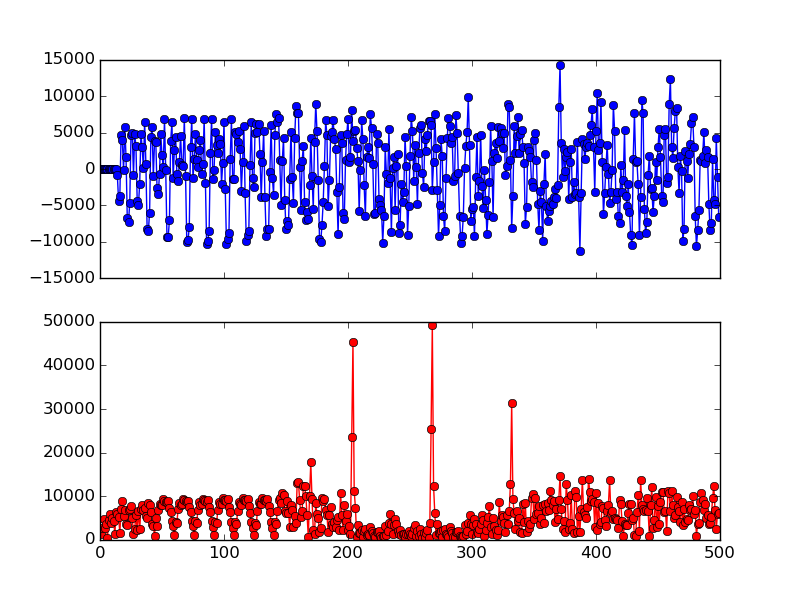
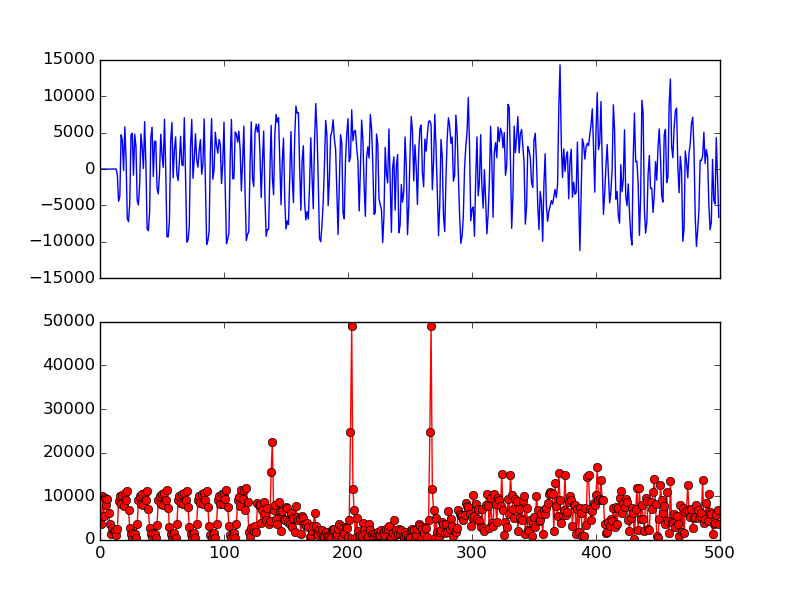
working on eq

Changed region(s): [[0.125, 0.12, 0.9062, 0.42], [0.125, 0.54, 0.9062, 0.9], [0.6875, 0.09, 0.7188, 0.12]]

diff --git a/docs/source/sync_long.rst b/docs/source/sync_long.rst
@@ -1,6 +1,10 @@
 Symbol Alignment
 ================
 
+- **Module**: :file:`sync_long.v`
+- **Input**: ``I (16), Q (16), phase_offset (32), short_gi (1)``
+- **Output**: ``long_preamble_detected (1), fft_re (16), fft_im (16)``
+
 After detecting the packet, the next step is to determine precisely where each
 OFDM symbol starts. In 802.11, each OFDM symbol is 4 |us| long. At 20 MSPS
 sampling rate, this means each OFDM symbol contains 80 samples. The task is to
@@ -14,20 +18,20 @@ achieved using the long preamble following the short preamble.
     802.11 OFDM Packet Structure (Fig 18-4 in 802.11-2012 Std)
 
 As shown in :numref:`fig_training`, the long preamble duration is 8 |us| (160
-samples), and contains two identical long training sequence (LTS), 64 samples each.
-The LTS is known and we can use `matched filter
-<https://en.wikipedia.org/wiki/Matched_filter>`_ to find it.
+samples), and contains two identical long training sequence (LTS), 64 samples
+each.  The LTS is known and we can use `cross correlation
+<https://en.wikipedia.org/wiki/Cross-correlation>`_ to find it.
 
-The match *score* at sample :math:`i` can be calculated as follows.
+The cross validation *score* at sample :math:`i` can be calculated as follows.
 
 .. math:: 
-    :label: eq_matched
+    :label: eq_cross_corr
 
-    Y[i] = \sum_{k=0}^{63}(S[i+k]\overline{H[63-k]})
+    Y[i] = \sum_{k=0}^{63}(S[i+k]\overline{H[k]})
 
 where :math:`H` is the 64 sample known LTS in time domain, and can be found in
-Table L-6 in :download:`802.11-2012 std </files/802.11-2012.pdf>` (index 64 to
-127). A numpy readable file of the LTS (64 samples) can be found :download:`here
+Table L-6 in :download:`802.11-2012 std </files/802.11-2012.pdf>` (index 96 to
+159). A numpy readable file of the LTS (64 samples) can be found :download:`here
 </files/lts.txt>`, and can be read like this:
 
 .. code-block:: python
@@ -39,7 +43,7 @@ Table L-6 in :download:`802.11-2012 std </files/802.11-2012.pdf>` (index 64 to
 .. figure:: /images/lts.png
     :align: center
 
-    Long Preamble and Matched Filter Result
+    Long Preamble and Cross Correlation Result
 
 To plot :numref:`fig_lts`, load the data file (see :ref:`sec_sample`), then:
 
@@ -53,30 +57,30 @@ To plot :numref:`fig_lts`, load the data file (see :ref:`sec_sample`), then:
     fig, ax = plt.subplots(nrows=2, ncols=1, sharex=True)
     ax[0].plot([c.real for c in samples][:500])
     # lts is from the above code snippet
-    ax[1].plot([abs(c) for c in np.convolve(samples, lts, mode='same')][:500], '-ro')
+    ax[1].plot([abs(c) for c in np.correlate(samples, lts, mode='valid')][:500], '-ro')
     plt.show()
 
     
 
-:numref:`fig_lts` shows the long preamble samples and also the result of matched
-filter. We can clearly see two spikes corresponding the two LTS in long
+:numref:`fig_lts` shows the long preamble samples and also the result of cross
+correlation. We can clearly see two spikes corresponding the two LTS in long
 preamble. And the spike width is only 1 sample which shows exactly the beginning
 of each sequence. Suppose the sample index if the first spike is :math:`N`, then
-the 160 sample long preamble starts at sample :math:`N-33`.
+the 160 sample long preamble starts at sample :math:`N-32`.
 
 This all seems nice and dandy, but as it comes to Verilog implementation, we
-have to make a few compromises.
+have to make a compromise.
 
-First, from :eq:`eq_matched` we can see for each sample, we need to perform 64
+From :eq:`eq_cross_corr` we can see for each sample, we need to perform 64
 complex number multiplications, which would consume a lot FPGA resources.
-Therefore, we need to reduce the matched filter size. The idea is to only use
-a portion instead of all the LTS samples.
+Therefore, we need to reduce the size of cross validation. The idea is to only
+use a portion instead of all the LTS samples.
 
 .. _fig_match_size:
 .. figure:: /images/match_size.png
     :align: center
 
-    Matched Filter with Various Size (8, 16, 32, 64)
+    Cross Correlation with Various Size (8, 16, 32, 64)
 
 :numref:`fig_match_size` can be plotted as:
 
@@ -86,17 +90,44 @@ a portion instead of all the LTS samples.
 
     fig, ax = plt.subplots(nrows=5, ncols=1, sharex=True)
     ax[0].plot([c.real for c in lp])
-    ax[1].plot([abs(c) for c in np.convolve(lp, lts[:8], mode='same')], '-ro')
-    ax[2].plot([abs(c) for c in np.convolve(lp, lts[:16], mode='same')], '-ro')
-    ax[3].plot([abs(c) for c in np.convolve(lp, lts[:32], mode='same')], '-ro');
-    ax[4].plot([abs(c) for c in np.convolve(lp, lts, mode='same')], '-ro')
+    ax[1].plot([abs(c) for c in np.correlate(lp, lts[:8], mode='valid')], '-ro')
+    ax[2].plot([abs(c) for c in np.correlate(lp, lts[:16], mode='valid')], '-ro')
+    ax[3].plot([abs(c) for c in np.correlate(lp, lts[:32], mode='valid')], '-ro');
+    ax[4].plot([abs(c) for c in np.correlate(lp, lts, mode='valid')], '-ro')
     plt.show()
 
-:numref:`fig_match_size` shows the long preamble (160 samples) as well as
-matched filter with different size. It can be seen that using the first 16
-samples of LTS is good enough to exhibit two narrow spikes. Therefore, |project|
-use matched filter of size 16 for symbol alignment. And the first sample of the
-long preamble starts at :math:`N_{16}-57`, where :math:`N_{16}` is the index of
-the first spike when the filter size is 16 (for completeness, it is
-:math:`N_{32}-49` when filter size is
-32).
+:numref:`fig_match_size` shows the long preamble (160 samples) as well as cross
+validation with different size. It can be seen that using the first 16 samples
+of LTS is good enough to exhibit two narrow spikes. Therefore, |project| use
+cross correlation of first 16 samples of LTS for symbol alignment. To confirm,
+:numref:`fig_lts_16` shows the cross correlation of the first 16 samples of LTS
+on the actual packet. The two spikes are not as obvious as the ones in
+:numref:`fig_lts`, but are still clearly visible.
+
+.. _fig_lts_16:
+.. figure:: /images/lts_16.png
+    :align: center
+
+    Cross Validation using the First 16 Samples of LTS
+
+To find the two spikes, we keep a record of the max correlation sample for the
+first 64 samples (since the first spike is supposed to be at the 32th sample).
+Similarly, we also keep a record of the max correlation sample for the second 64
+samples. For further eliminate false positives, we also check if the two spike
+sample indexes are :math:`64 \pm 1` apart.
+
+
+FFT
+---
+
+Now we have located the start of each OFDM symbol, the next task is to perform
+FFT on the last 64 data samples inside each symbol. For this we utilize the
+`XFFT core
+<https://www.xilinx.com/support/documentation/ip_documentation/xfft_ds260.pdf>`_
+generated by Xilinx ISE. Depend on if `short guard interval (SGI)
+<https://en.wikipedia.org/wiki/Guard_interval>`_ is used, the first 16 or 8
+samples of each OFDM symbol need to be skipped.
+
+But before performing FFT, we need to first apply the frequency offset
+correction (see :ref:`freq_offset`). This is achieved via the ``rotate`` module
+(see :ref:`rotate`).

diff --git a/docs/source/eq.rst b/docs/source/eq.rst
@@ -1,0 +1,91 @@
+Sub-carrier Equalization and Pilot Correction
+============================================
+
+- **Module**: :file:`equalizer.v`
+- **Input**: ``I (16), Q (16)``
+- **Output**: ``I (16), Q (16)``
+
+This is the first module in frequency domain. There are two main tasks:
+sub-carrier gain equalization and correcting residue phase offset using the
+pilot sub-carriers.
+
+Sub-carrier Structure
+---------------------
+
+The basic channel width in 802.11a/g/n is 20 MHz, which is further divided into
+64 sub-carriers (0.3125 MHz each).
+
+.. _fig_subcarrier:
+.. figure:: /images/subcarrier.png
+    :align: center
+
+    Sub-carriers in 802.11 OFDM
+
+:numref:`fig_subcarrier` shows the sub-carrier structure of the 20 MHz band. 52
+out of 64 sub-carriers are utilized, and 4 out of the 52 (-7, -21, 7, 21)
+sub-carriers are used as pilot sub-carrier and the remaining 48 sub-carriers
+carries data. As we will see later, the pilot sub-carriers can be used to
+correct the residue frequency offset.
+
+Each sub-carrier carries I/Q modulated information, corresponding to the output
+of 64 point FFT from :file:`sync_long.v` module. 
+
+
+.. _fig_lts_fft:
+.. figure:: /images/lts_fft.png
+    :align: center
+    :scale: 80%
+
+    FFT of the Perfect and Two Actual LTS
+
+To plot :numref:`fig_lts_fft`:
+
+.. code-block:: python
+
+    lts1 = samples[11+160:][32:32+64]
+    lts2 = samples[11+160:][32+64:32+128]
+    fig, ax = plt.subplots(nrows=3, ncols=1, sharex=True);
+    ax[0].plot([c.real for c in np.fft.fft(lts)], '-bo');
+    ax[1].plot([c.real for c in np.fft.fft(lts1)], '-ro');
+    ax[2].plot([c.real for c in np.fft.ff t(lts2)], '-ro');
+    plt.show()
+
+:numref:`fig_lts_fft` shows the FFT of the perfect LTS and the two actual LTSs
+in the samples. We can see that each sub-carrier exhibits different magnitude
+gain. In fact, they also have different phase drift. The combined effect of
+magnitude gain and phase drift (known as *channel gain*) can clearly be seen in
+the I/Q plane shown in :numref:`fig_lts_fft_iq`.
+
+
+.. _fig_lts_fft_iq:
+.. figure:: /images/lts_fft_iq.png
+    :align: center
+    :scale: 80%
+
+    FFT in I/Q Plane of The Actual LTS
+
+
+To map the FFT point to constellation points, we need to compensate for the
+channel gain. This can be achieved by normalize the data OFDM symbols using the
+LTS. In particular, the mean of the two LTS is used as channel gain (:math:`H`):
+
+.. math::
+
+    H[i] = \frac{1}{2}(LTS_1[i] + LTS_2[i])\times L[i], i \in
+    [-26,\ldots, -1, 1, \ldots, 26]
+
+where :math:`L[i]` is the sign of the LTS sequence:
+
+.. math::
+
+    L_{-26,26} = \{
+    &1, 1, –1, –1, 1, 1, –1, 1, –1, 1, 1, 1, 1, 1, 1, –1, –1, 1,\\
+    &1, –1, 1, –1, 1, 1, 1, 1, 0, 1, –1, –1, 1, 1, –1, 1, –1, 1,\\
+    &–1, –1, –1, –1, –1, 1, 1, –1, –1, 1, –1, 1, –1, 1, 1, 1, 1\}
+
+And the FFT output at sub-carrier :math:`i` is normalized as:
+
+.. math::
+
+    S'[i] = \frac{S[i]}{H[i]}
+

diff --git a/docs/source/verilog.rst b/docs/source/verilog.rst
@@ -9,7 +9,9 @@ quantization and look up table. In |project|, these approximations are used.
 Magnitude Estimation
 --------------------
 
-**Module**: :file:`complex_to_mag.v`
+- **Module**: :file:`complex_to_mag.v`
+- **Input**: ``i (32), q (32)``
+- **Output**: ``mag (32)``
 
 In the ``sync_short`` module, we need to calculate the magnitude of the
 ``prod_avg``, whose real and imagine part are both 32-bits. To avoid 32-bit
@@ -36,10 +38,15 @@ second cycle, ``max`` and ``min`` are determined. In the final cycle, the
 magnitude is calculated.
 
 
+.. _sec_phase:
+
 Phase Estimation
 ----------------
 
-**Module**:: :file:`phase.v`
+- **Module**: :file:`phase.v`
+- **Input**: ``i (32), q (32)``
+- **Output**: ``phase (32)``
+- **Note**: The returned phase is scaled up by 512 (i.e., :math:`int(\theta *512)`)
 
 When correcting the frequency offset, we need to estimate the phase of a complex
 number. The *right* way of doing this is probably using the `CORDIC
@@ -102,3 +109,43 @@ Refer to `this guide
 <https://www.xilinx.com/itp/xilinx10/isehelp/cgn_p_memed_single_block.htm>`_ on
 how to create a look up table in Xilinx ISE. The generated module is stored in
 :file:`verilog/coregen/atan_lut.v`.
+
+
+
+.. _rotate:
+
+Rotation
+--------
+
+- **Module**: :file:`/verilog/rotate.v`
+- **Input**: ``i (16), q (16), phase (32)``
+- **Output**: ``out_i (16), out_q (16)``
+- **Note**: The input phase is assumed to be scaled up by 512.
+
+To rotate a complex number :math:`C=I+jQ` by :math:`\theta` degree, we can
+multiply it by :math:`e^{j\theta}`, as shown in :eq:`eq_rot`.
+
+.. math::
+    :label: eq_rot
+
+    C' = (I+jQ)\times(\cos(\theta)+j\sin(\theta))
+
+Again, this can be done using the CORDIC algorithm. But similar to
+:ref:`sec_phase`, we use the look up table.
+
+
+.. _fig_quadrant:
+.. figure:: /images/quadrant.png
+    :align: center
+    :scale: 60%
+
+    Quadrant in I/Q Plane
+
+As shown in :numref:`fig_quadrant`, we split the I/Q plane into 8 quadrants,
+:math:`\pi/4` each. To avoid storing nearly duplicate entries in the table, we
+first map the phase to be rotated (:math:`[-\pi, \pi]`) into the :math:`[0,
+\pi/4]` range. Next, since the incoming phase is scaled up by 512, each quadrant
+is further split into :math:`402=int(\pi/4*512)` sectors. And the
+:math:`\cos(\theta)` and :math:`\sin(\theta)` values (scaled up by 2048) are
+stored in the look up table. The table is generated by the
+:file:`scripts/gen_rot_lut.py`.

diff --git a/docs/source/freq_offset.rst b/docs/source/freq_offset.rst
@@ -20,22 +20,26 @@ visually how each correction step helps in the final constellation plane.
 .. _fig_cons:
 .. figure:: /images/cons.png
     :align: center
+    :scale: 80%
 
     Constellation Points Without Any Correction
 
 .. figure:: /images/cons_w_coarse.png
     :align: center
+    :scale: 80%
 
     Constellation Points With Only Coarse Correction
 
 .. figure:: /images/cons_w_coarse_fine.png
     :align: center
+    :scale: 80%
 
     Constellation Points With both Coarse and Fine Correction 
 
 .. _fig_cons_full:
 .. figure:: /images/cons_w_coarse_fine_pilot.png
     :align: center
+    :scale: 80%
 
     Constellation Points With Coarse, Fine and Pilot Correction
 
@@ -49,7 +53,7 @@ The coarse CFO can be estimated using the short preamble as follows:
 
 .. math::
 
-    \alpha_{ST} = \frac{1}{16}\angle(\sum_{i=0}^{N}\overline{S[i]}S[i+16])
+    \alpha_{ST} = \frac{1}{16}\angle(\sum_{i=0}^{N-1}\overline{S[i]}S[i+16])
 
 where :math:`\angle(\cdot)` is the phase of complex number and :math:`N \le 144
 (160 - 16)` is the subset of short preambles utilized. The intuition is that the
@@ -69,5 +73,22 @@ set :math:`N=64`. The ``prod_avg`` in :numref:`fig_sync_short` is fed into a
 ``moving_avg`` module with window size set to 64.
 
 
+Fine CFO Correction
+-------------------
+
+A finer estimation of the CFO can be obtained with the help of long training
+sequence inside the long preamble.
+
+The long preamble contains two identify training sequence (64 samples each at 20
+MSPS), the phase offset can be calculated as:
+
+.. math::
+
+    \alpha_{LT} = \frac{1}{64}\angle(\sum_{i=0}^{63}\overline{S[i]}S[i+64])
+
+This step is omitted in |project| due to the limited resolution of phase
+estimation and rotation in the look up table.
 
 .. [1] Sourour, Essam, Hussein El-Ghoroury, and Dale McNeill.  "Frequency Offset Estimation and Correction in the IEEE 802.11 a WLAN." Vehicular Technology Conference, 2004. VTC2004-Fall. 2004 IEEE 60th. Vol. 7.  IEEE, 2004. 
+
+

diff --git a/docs/source/index.rst b/docs/source/index.rst
@@ -14,6 +14,7 @@ Welcome to |project|'s documentation!
    detection
    freq_offset
    sync_long
+   eq
    setting
    verilog
 
